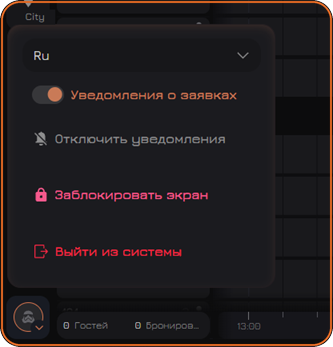
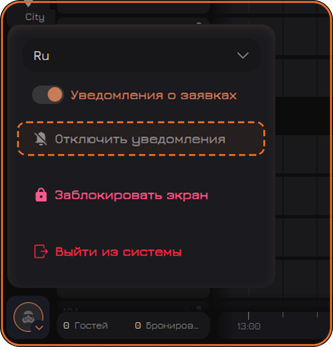
Reservations: «Уведомления» - рамки на скринах меню, раздел уведомлений в «Заявках» (CIMP-331)

diff --git a/content/ru/reservations/reservations/requests.md b/content/ru/reservations/reservations/requests.md
@@ -181,7 +181,16 @@ updatedAt: 2026-07-23
 
 ## Уведомления о новых заявках
 
-О новых заявках модуль бронирования сообщает карточкой внутри CosmosResto и системным уведомлением. Как их включить, описано в статье **[Уведомления](https://wiki.cosmosresto.ru/ru/reservations/reservations/notifications/)**.
+Уведомления включаются в меню под аватаром в модуле бронирования:
+
+- **Уведомления о заявках** - переключатель. Когда он включён, при поступлении новой заявки поверх модуля бронирования появляется карточка **Новая заявка**.
+- **Включить уведомления** - системные уведомления. Приходят, даже если браузер свёрнут или открыта другая программа.
+
+![Меню под аватаром](/ru/images/reserve/requests/notifications-menu.png)
+
+[[delimiter rows=1]]
+
+Для системных уведомлений также нужно разрешение в браузере и в операционной системе. Подробнее - в статье **[Уведомления](https://wiki.cosmosresto.ru/ru/reservations/reservations/notifications/)**.
 
 [[delimiter rows=3]]
 
